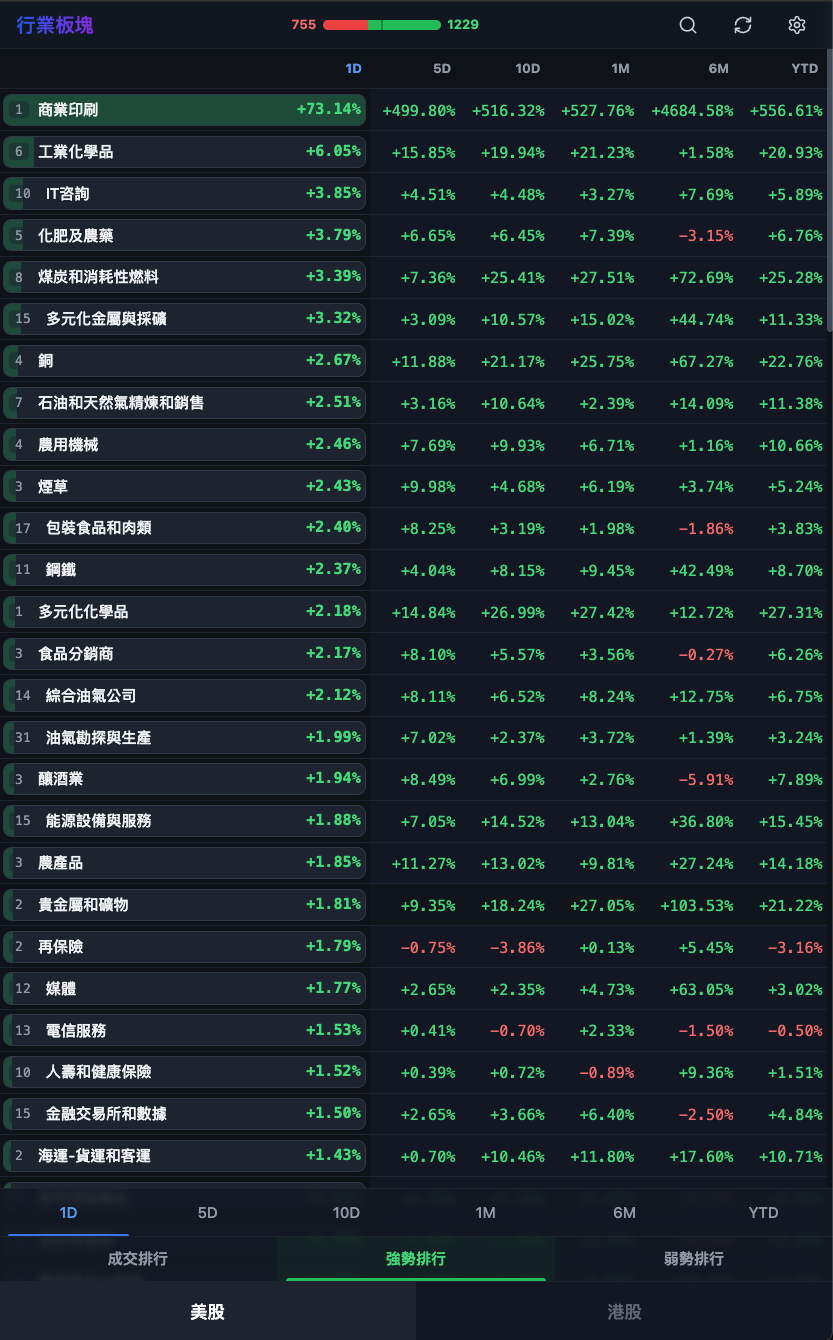
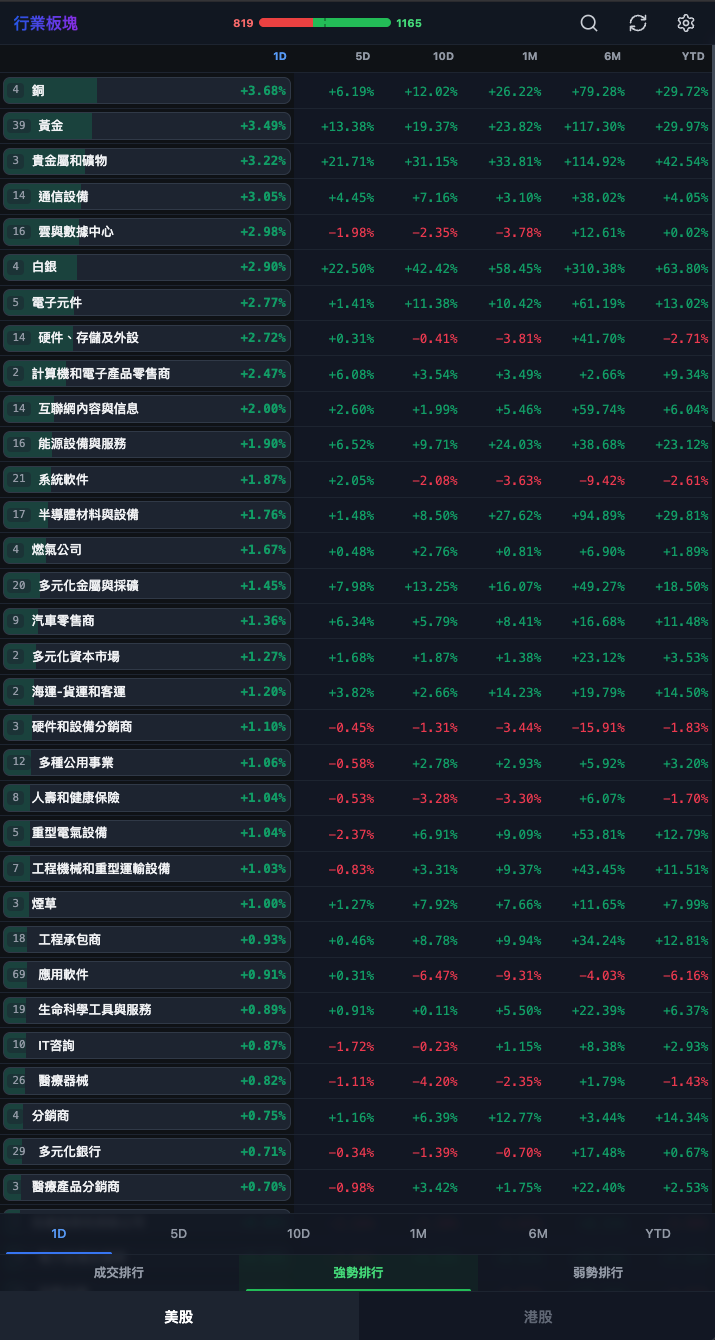
feat(v1.4.3): 實作動態凍結表頭與介面佈局優化
- 新增動態凍結表頭功能 (Sticky Header)
- 全面重構「成交排行」顯示樣式與佈局
- 優化數據欄位對齊與響應式表現
- 修正 Header/Footer 顯示邏輯
- 改善固定表頭的內容間距與視覺體驗

diff --git a/sector_heatmap.html b/sector_heatmap.html
@@ -20,6 +20,11 @@
                             750: '#2d3748',
                             850: '#1a202c',
                             950: '#0d1117',
+                        },
+                        quote: {
+                            up: '#06A870',      // 綠
+                            down: '#F03A55',    // 紅
+                            neutral: '#646F85', // 灰
                         }
                     }
                 }
@@ -202,16 +207,23 @@
         };
 
         const getColorClass = (val) => {
-            if (!val && val !== 0) return 'text-gray-500';
-            if (val > 0) return 'text-green-500 dark:text-green-400';
-            if (val < 0) return 'text-red-500 dark:text-red-400';
-            return 'text-gray-500 dark:text-gray-400';
+            if (!val && val !== 0) return 'text-quote-neutral';
+            if (val > 0) return 'text-quote-up';
+            if (val < 0) return 'text-quote-down';
+            return 'text-quote-neutral';
         };
 
         const getBgColorClass = (val) => {
-            if (val > 0) return 'bg-green-500';
-            if (val < 0) return 'bg-red-500';
-            return 'bg-gray-500';
+            if (val > 0) return 'bg-quote-up';
+            if (val < 0) return 'bg-quote-down';
+            return 'bg-quote-neutral';
+        };
+
+        // Helper for Pill Background (always white text)
+        const getBgPillColor = (val) => {
+            if (val > 0) return 'bg-quote-up';
+            if (val < 0) return 'bg-quote-down';
+            return 'bg-quote-neutral';
         };
 
         // --- Icons ---
@@ -786,9 +798,9 @@
                                             </div>
 
                                             {/* 價格和漲跌幅 */}
-                                            <div className="flex flex-col items-end flex-shrink-0">
-                                                <span className="font-mono text-sm">{formatNumber(price)}</span>
-                                                <span className={`font-mono text-sm ${getColorClass(change)}`}>
+                                            <div className="flex flex-col items-end flex-shrink-0 gap-1">
+                                                <span className="font-mono text-sm font-bold text-gray-900 dark:text-white">{formatNumber(price)}</span>
+                                                <span className={`px-1.5 py-0.5 rounded text-white font-bold font-mono text-xs ${getBgColorClass(change)}`}>
                                                     {formatPercent(change)}
                                                 </span>
                                             </div>
@@ -823,7 +835,7 @@
         // 成交排行列表元件，使用虛擬滾動技術
         // 只渲染可視區域的元素，支援 2000+ 筆資料流暢滾動
         // ========================================
-        const TurnoverList = ({ stocks, market, sectorAvgChanges, sectorData, globalMaxVal, timeRangeIdx, onMiniSectorClick, onScroll, barsVisible, highlightedStockCode, fontSizePercent = 100 }) => {
+        const TurnoverList = ({ stocks, market, sectorAvgChanges, sectorData, globalMaxVal, timeRangeIdx, onMiniSectorClick, onScroll, barsVisible, highlightedStockCode, fontSizePercent = 100, headerHeight = 40 }) => {
             // 虛擬滾動核心變數
             const ROW_HEIGHT_EXPANDED = 30; // 展開模式每列高度 (px) - 單行
             const ROW_HEIGHT_COLLAPSED = 44; // 收起模式每列高度 (px) - 雙行
@@ -983,7 +995,7 @@
                 <div
                     ref={scrollContainerRef}
                     onScroll={handleScroll}
-                    className="flex-1 overflow-y-auto overflow-x-auto relative overscroll-none pt-10"
+                    className="flex-1 overflow-y-auto overflow-x-auto relative overscroll-none"
                 >
                     <div style={{ height: totalHeight, position: 'relative' }}>
                         {/* 表頭 - 固定在頂部 */}
@@ -1012,7 +1024,7 @@
                                     </>
                                 )}
                             </colgroup>
-                            <thead className="bg-gray-50 dark:bg-gray-900 text-xs text-gray-500 dark:text-gray-400 uppercase transition-all duration-300" style={{ transform: barsVisible ? 'translateY(0)' : 'translateY(-40px)' }}>
+                            <thead className="bg-gray-50 dark:bg-gray-900 text-xs text-gray-500 dark:text-gray-400 uppercase">
                                 <tr>
                                     {/* Sticky: 排名 */}
                                     <th className="sticky left-0 z-30 bg-gray-50 dark:bg-gray-900 px-1 py-2 text-center border-b border-gray-200 dark:border-gray-800 shadow-[1px_0_0_0_rgba(0,0,0,0.05)] dark:shadow-[1px_0_0_0_rgba(255,255,255,0.05)]" style={{ width: '40px' }}>#</th>
@@ -1116,10 +1128,10 @@
                                                                     </>
                                                                 )}
                                                             </div>
-                                                            <span className={`font-mono text-sm font-bold w-20 text-right flex-shrink-0 ${getColorClass(change)}`}>
+                                                            <span className="font-mono text-sm font-bold text-right whitespace-nowrap flex-shrink-0 text-gray-900 dark:text-white">
                                                                 {formatNumber(stock.indicators[IND_IDX.PRICE])}
                                                             </span>
-                                                            <span className={`font-mono text-sm font-bold w-20 text-right flex-shrink-0 ${getColorClass(change)}`}>
+                                                            <span className={`ml-2 px-1.5 py-0.5 rounded text-white font-bold w-20 flex justify-center items-center font-mono text-xs whitespace-nowrap flex-shrink-0 ${getBgPillColor(change)}`}>
                                                                 {formatPercent(change)}
                                                             </span>
                                                         </div>
@@ -1147,9 +1159,11 @@
                                                                         </>
                                                                     )}
                                                                 </div>
-                                                                <div className="flex flex-col items-end flex-shrink-0 ml-2">
-                                                                    <span className={`font-mono text-sm font-bold ${getColorClass(change)}`}>{formatNumber(stock.indicators[IND_IDX.PRICE])}</span>
-                                                                    <span className={`font-mono text-sm font-bold ${getColorClass(change)}`}>
+                                                                <div className="flex flex-col items-end flex-shrink-0 ml-2 gap-1">
+                                                                    <span className="font-mono text-sm font-bold text-gray-900 dark:text-white">
+                                                                        {formatNumber(stock.indicators[IND_IDX.PRICE])}
+                                                                    </span>
+                                                                    <span className={`px-1.5 py-0.5 rounded text-white font-bold font-mono text-xs ${getBgPillColor(change)}`}>
                                                                         {formatPercent(change)}
                                                                     </span>
                                                                 </div>
@@ -1193,7 +1207,8 @@
                     {showScrollTop && (
                         <button
                             onClick={scrollToTop}
-                            className={`fixed right-4 w-12 h-12 rounded-full bg-gray-800/80 dark:bg-gray-200/80 text-white dark:text-gray-800 flex items-center justify-center shadow-lg hover:bg-gray-700/90 dark:hover:bg-gray-300/90 transition-all duration-300 z-50 ${barsVisible ? 'bottom-36' : 'bottom-6'}`}
+                            className="fixed right-4 w-12 h-12 rounded-full bg-gray-800/80 dark:bg-gray-200/80 text-white dark:text-gray-800 flex items-center justify-center shadow-lg hover:bg-gray-700/90 dark:hover:bg-gray-300/90 z-50"
+                            style={{ bottom: barsVisible ? 144 : 24, transition: 'bottom 300ms ease-out' }}
                             title="回到頂部"
                         >
                             <svg xmlns="http://www.w3.org/2000/svg" className="h-6 w-6" fill="none" viewBox="0 0 24 24" stroke="currentColor">
@@ -1302,6 +1317,8 @@
 
             const sectorRefs = useRef({});
             const scrollContainerRef = useRef(null);
+            const headerRef = useRef(null); // Header 元素參考
+            const [headerHeight, setHeaderHeight] = useState(40); // Header 動態高度
             const lastScrollY = useRef(0); // 記錄上次滾動位置
             const scrollThreshold = 10; // 滾動閾值 (px)，避免過於敏感
             const hideTimerRef = useRef(null); // 回到頂部按鈕 5 秒自動隱藏計時器
@@ -1325,6 +1342,19 @@
             // 組件卸載時清除計時器
             useEffect(() => {
                 return () => clearHideTimer();
+            }, []);
+
+            // 動態測量 Header 高度
+            useEffect(() => {
+                if (!headerRef.current) return;
+                const observer = new ResizeObserver((entries) => {
+                    for (const entry of entries) {
+                        setHeaderHeight(entry.contentRect.height);
+                    }
+                });
+                observer.observe(headerRef.current);
+                setHeaderHeight(headerRef.current.offsetHeight);
+                return () => observer.disconnect();
             }, []);
 
             // Effects
@@ -1672,7 +1702,7 @@
                     )}
 
                     {/* 1. Header - 絕對定位，浮在內容上方，毛玉璃效果 */}
-                    <header className={`absolute top-0 left-0 right-0 z-50 px-4 py-1 bg-white/90 dark:bg-gray-900/90 backdrop-blur-sm border-b border-gray-200 dark:border-gray-800 flex items-center justify-between transition-transform duration-300 ease-out ${barsVisible ? 'translate-y-0' : '-translate-y-full'}`}>
+                    <header ref={headerRef} className="fixed top-0 left-0 right-0 z-50 px-4 py-1 bg-white/90 dark:bg-gray-900/90 backdrop-blur-sm border-b border-gray-200 dark:border-gray-800 flex items-center justify-between">
                         <h1 className="text-lg font-bold bg-gradient-to-r from-blue-600 to-purple-600 bg-clip-text text-transparent hidden sm:block">
                             行業板塊
                         </h1>
@@ -1827,7 +1857,7 @@
                             // ========================================
                             <>
                                 {/* 上方：成交排行列表 */}
-                                <div className="w-full flex flex-col min-h-0 bg-white dark:bg-gray-950 flex-1">
+                                <div className="w-full flex flex-col min-h-0 bg-white dark:bg-gray-950 flex-1" style={{ paddingTop: headerHeight }}>
                                     <TurnoverList
                                         stocks={rawData}
                                         market={market}
@@ -1840,6 +1870,7 @@
                                         barsVisible={barsVisible}
                                         highlightedStockCode={highlightedStock}
                                         fontSizePercent={fontSizePercent}
+                                        headerHeight={headerHeight}
                                     />
                                 </div>
                                 {/* 下方：Split View - 板塊成分股 */}
@@ -1874,10 +1905,10 @@
                             // ========================================
                             <>
                                 {/* Upper Panel: Sector Ranking */}
-                                <div className="w-full flex flex-col bg-gray-50 dark:bg-gray-950 flex-1 min-h-[200px]">
-                                    <div ref={scrollContainerRef} onScroll={handleMainScroll} className="flex-1 overflow-auto relative overscroll-none pt-10">
+                                <div className="w-full flex flex-col bg-gray-50 dark:bg-gray-950 flex-1 min-h-[200px]" style={{ paddingTop: headerHeight }}>
+                                    <div ref={scrollContainerRef} onScroll={handleMainScroll} className="flex-1 overflow-auto relative overscroll-none">
                                         <table className="min-w-full border-separate border-spacing-0 table-fixed">
-                                            <thead className="bg-gray-50 dark:bg-gray-950 z-20 sticky transition-all duration-300" style={{ top: barsVisible ? '0' : '-40px' }}>
+                                            <thead className="bg-gray-50 dark:bg-gray-950 z-20 sticky" style={{ top: 0 }}>
                                                 <tr>
                                                     {/* Sticky Left Header: Current Time Range Label */}
                                                     <th className="sticky left-0 z-30 bg-gray-50 dark:bg-gray-950 border-b border-gray-200 dark:border-gray-800 p-2 text-right" style={{ minWidth: '140px', maxWidth: '50vw' }}>
@@ -1974,7 +2005,8 @@
                             viewMode !== 'turnover' && showScrollTop && (
                                 <button
                                     onClick={scrollToTop}
-                                    className={`fixed right-4 w-12 h-12 rounded-full bg-gray-800/80 dark:bg-gray-200/80 text-white dark:text-gray-800 flex items-center justify-center shadow-lg hover:bg-gray-700/90 dark:hover:bg-gray-300/90 transition-all duration-300 z-50 ${barsVisible ? 'bottom-36' : 'bottom-6'}`}
+                                    className="fixed right-4 w-12 h-12 rounded-full bg-gray-800/80 dark:bg-gray-200/80 text-white dark:text-gray-800 flex items-center justify-center shadow-lg hover:bg-gray-700/90 dark:hover:bg-gray-300/90 z-50"
+                                    style={{ bottom: barsVisible ? 144 : 24, transition: 'bottom 300ms ease-out' }}
                                     title="回到頂部"
                                 >
                                     <svg xmlns="http://www.w3.org/2000/svg" className="h-6 w-6" fill="none" viewBox="0 0 24 24" stroke="currentColor">
@@ -1986,7 +2018,7 @@
                     </div >
 
                     {/* 4. Bottom Navigation - 絕對定位，浮在內容下方，毛玉璃效果 */}
-                    < div className={`absolute bottom-0 left-0 right-0 z-50 bg-white/90 dark:bg-gray-900/90 backdrop-blur-sm border-t border-gray-200 dark:border-gray-800 pb-safe transition-transform duration-300 ease-out ${barsVisible ? 'translate-y-0' : 'translate-y-full'}`}>
+                    <div className={`fixed bottom-0 left-0 right-0 z-50 bg-white/90 dark:bg-gray-900/90 backdrop-blur-sm border-t border-gray-200 dark:border-gray-800 pb-safe transition-transform duration-300 ease-out ${barsVisible ? 'translate-y-0' : 'translate-y-full'}`}>
 
                         {/* Time Range Selector - 時間週期 */}
                         < div className="flex overflow-x-auto no-scrollbar border-b border-gray-100 dark:border-gray-800 overscroll-none" >

diff --git a/CHANGELOG.md b/CHANGELOG.md
@@ -2,6 +2,32 @@
 
 本文件記錄所有版本的更新內容。格式基於 [Keep a Changelog](https://keepachangelog.com/zh-TW/1.0.0/)。
 
+## [v1.4.3] - 2026-01-27
+
+### 新增
+- ✨ 實作動態凍結表頭功能：
+  - 向下滾動時 Header 隱藏，表頭凍結於螢幕頂部
+  - 向上滾動時 Header 顯示，表頭凍結於 Header 下方
+  - 使用 ResizeObserver 動態測量 Header 高度（支援字型縮放 50%-200%）
+  - 適用於「成交排行」和「強弱勢排行」兩種視圖
+
+### 優化
+- 🎨 全面重構「成交排行（TurnoverList）」顯示樣式：
+  - **展開模式 (Expanded Mode)**：
+    - 價格與漲跌幅改為單行並排顯示，提升閱讀效率
+    - 價格欄位設定固定寬度並靠右對齊，確保垂直視覺整齊劃一
+    - 移除彈性寬度限制，釋放更多空間予左側股票名稱與代號
+  - **收起模式 (Collapsed Mode)**：
+    - 價格字型大小調整為與展開模式一致 (`text-sm`)
+    - 價格顏色統一改為預設文字顏色（明亮/暗黑模式適應），不再隨漲跌變色
+    - 移除右側數據區最小寬度限制，最大化股票資訊顯示空間
+  - **漲跌幅顯示升級**：
+    - 改為圓角色塊（Pill）樣式，白字配深色背景
+    - 使用全新的專屬配色：綠(`#06A870`) / 紅(`#F03A55`) / 灰(`#646F85`)
+    - 標籤內文字水平與垂直完全置中
+
+---
+
 ## [v1.4.2] - 2026-01-22
 
 ### 修復

diff --git a/README.md b/README.md
@@ -1,6 +1,6 @@
 # Stock Sector Heatmap (板塊強弱勢排行)
 
-![Version](https://img.shields.io/badge/version-1.4.2-blue.svg)
+![Version](https://img.shields.io/badge/version-1.4.3-blue.svg)
 ![License](https://img.shields.io/badge/license-MIT-green.svg)
 
 一個基於 Web 的即時股市板塊熱力圖工具，專為分析美股 (US) 與港股 (HK) 的板塊強弱勢而設計。透過視覺化的方式，快速掌握市場資金流向與板塊輪動。
@@ -65,8 +65,9 @@ stock-sector-heatmap/
 
 ## 📝 版本紀錄
 
-**最新版本: v1.4.2** (2026-01-22)
-- 修復暗黑模式下股票列 hover 時表頭文字透出問題
+**最新版本: v1.4.3** (2026-01-27)
+- 新增：成交排行 Sticky Header 功能，方便在滾動時隨時查看標題
+- 優化：成交排行顯示樣式，採用更緊湊的佈局與清晰的漲跌色塊設計
 
 👉 [查看完整更新日誌](CHANGELOG.md)
 
